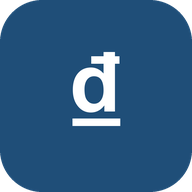
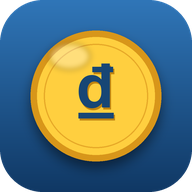
iPhone: phím tắt màn hình chính mở toàn màn hình như app, biểu tượng mới
- manifest display standalone (minimal-ui bị iPhone coi như tab Safari)
- Thêm apple-mobile-web-app-capable / title / status-bar-style
- Chừa thanh trạng thái phía trên (safe-area-inset-top), kể cả trên điện thoại
- Biểu tượng mới: đồng xu vàng chữ ₫ trên nền xanh chuyển màu

diff --git a/webapp/src/styles.css b/webapp/src/styles.css
@@ -51,7 +51,7 @@ button.chinh { background: var(--chinh); border-color: var(--chinh); color: #fff
 button.nguy { color: var(--chi); border-color: var(--chi); }
 code { font-size: 12px; }
 
-.trang { max-width: 1200px; margin: 0 auto; padding: 16px; }
+.trang { max-width: 1200px; margin: 0 auto; padding: 16px; padding-top: calc(16px + env(safe-area-inset-top)); }
 header { display: flex; align-items: center; justify-content: space-between; gap: 8px; }
 h1 { font-size: 20px; margin: 0; }
 .tai-khoan, .tai-khoan .menu { display: flex; gap: 8px; align-items: center; }
@@ -122,7 +122,7 @@ h1 { font-size: 20px; margin: 0; }
 .thanh-ngang .thanh { height: 10px; border-radius: 3px; opacity: .8; }
 
 @media (max-width: 700px) {
-  .trang { padding: 12px; }
+  .trang { padding: 12px; padding-top: calc(12px + env(safe-area-inset-top)); }
   .tong-hop { grid-template-columns: 1fr 1fr; gap: 8px; }
   .tong-hop .o-so:first-child { grid-column: 1 / -1; }
   .o-so { padding: 8px 12px; }

diff --git a/webapp/index.html b/webapp/index.html
@@ -7,6 +7,11 @@
     <link rel="manifest" href="/manifest.webmanifest" />
     <link rel="icon" type="image/png" href="/icon-192.png" />
     <link rel="apple-touch-icon" href="/apple-touch-icon.png" />
+    <!-- iPhone: mở từ biểu tượng ngoài màn hình chính = toàn màn hình như app, không có thanh Safari -->
+    <meta name="apple-mobile-web-app-capable" content="yes" />
+    <meta name="mobile-web-app-capable" content="yes" />
+    <meta name="apple-mobile-web-app-title" content="Quỹ phòng" />
+    <meta name="apple-mobile-web-app-status-bar-style" content="default" />
     <title>Quỹ phòng KTAT</title>
   </head>
   <body>
